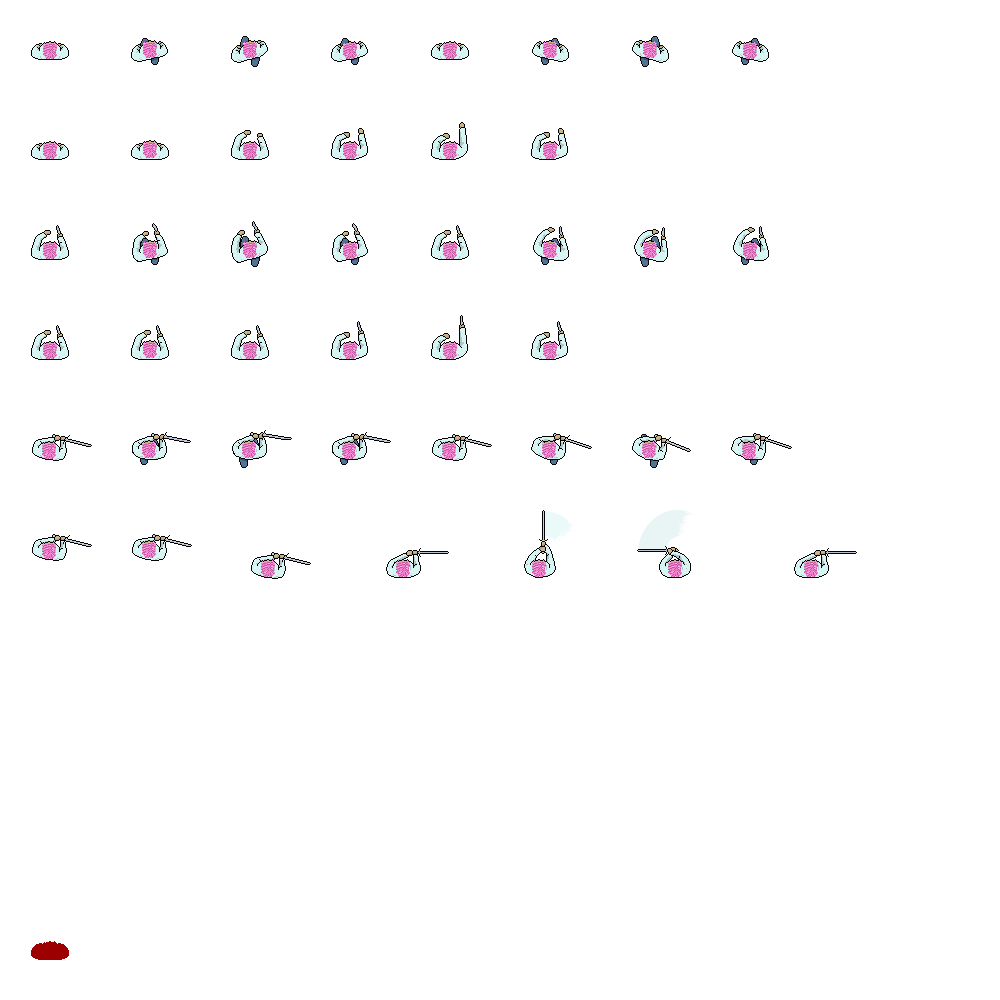
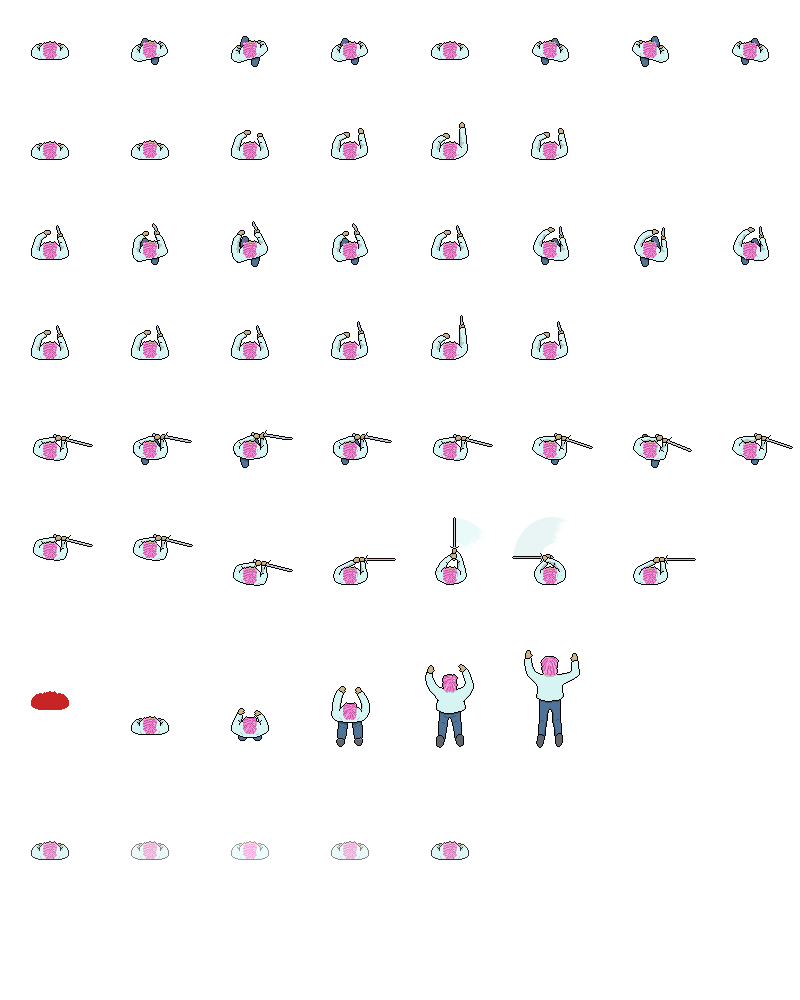
lvl 1 basic implementation... started

diff --git a/lilfrump.js b/lilfrump.js
@@ -1,16 +1,16 @@
 function Frump(game) {
     this.idle = new Animation(ASSET_MANAGER.getAsset("./img/LilFrump.png"), 0, 200, 200, 200, 0.4, 2, true, false);
     this.walk = new Animation(ASSET_MANAGER.getAsset("./img/LilFrump.png"), 0, 0, 200, 200, 0.1, 8, true, false);
-    this.hurting = new Animation(ASSET_MANAGER.getAsset("./img/LilFrump.png"), 0, 1800, 200, 200, 0.1, 1, false, false);
+    this.hurting = new Animation(ASSET_MANAGER.getAsset("./img/LilFrump.png"), 0, 1300, 200, 200, 0.1, 1, false, false);
     this.attack = new Animation(ASSET_MANAGER.getAsset("./img/LilFrump.png"), 400, 200, 200, 200, 0.1, 4, false, false);
-    // this.die = new Animation(ASSET_MANAGER.getAsset("./img/LilFrump.png"), 0, 1200, 200, 200, 0.1, 3, false, false);
+    this.deathAnim = new Animation(ASSET_MANAGER.getAsset("./img/LilFrump.png"), 200, 1300, 200, 300, 0.1, 5, false, false);
     // this.dead = new Animation(ASSET_MANAGER.getAsset("./img/LilFrump.png"), 400, 1200, 200, 200, 1, 1, false, false);
     this.knifeWalk = new Animation(ASSET_MANAGER.getAsset("./img/LilFrump.png"), 0, 400, 200, 200, 0.1, 8, true, false);
     this.knifeIdle = new Animation(ASSET_MANAGER.getAsset("./img/LilFrump.png"), 0, 600, 200, 200, 0.4, 2, true, false);
     this.knifeAttack = new Animation(ASSET_MANAGER.getAsset("./img/LilFrump.png"), 400, 600, 200, 200, 0.05, 4, false, false);
     this.swordWalk = new Animation(ASSET_MANAGER.getAsset("./img/LilFrump.png"), 0, 800, 200, 200, 0.1, 8, true, false);
     this.swordIdle = new Animation(ASSET_MANAGER.getAsset("./img/LilFrump.png"), 0, 1000, 200, 200, 0.4, 2, true, false);
-    this.swordAttack = new Animation(ASSET_MANAGER.getAsset("./img/LilFrump.png"), 400, 1000, 272, 272, 0.1, 5, false, false);
+    this.swordAttack = new Animation(ASSET_MANAGER.getAsset("./img/LilFrump.png"), 400, 1000, 200, 300, 0.1, 5, false, false);
 
     this.sides = 38;
     this.faces = 20;
@@ -37,6 +37,10 @@ Frump.prototype.constructor = Frump;
 
 Frump.prototype.update = function () {
     // console.log('P: ' + this.health);
+    if (this.health <= 0) {
+        this.dying = true;
+        this.health = 10;
+    }
     if (this.attackTimer > 0) this.attackTimer--;
     if (this.hitTimer > 0) this.hitTimer--;
     if (this.hitTimer == 0) this.hit = false;
@@ -49,9 +53,15 @@ Frump.prototype.update = function () {
     if (!this.game.shift & !this.game.space) this.weapon = "unarmed";
     if (this.game.clickmouse && this.attackTimer == 0) {
         this.attacking = true;
-        if (this.weapon == 'unarmed') this.attackTimer = 110;
-        else if (this.weapon = 'knife') this.attackTimer = 105;
-        else this.attackTimer = 115;
+        if (this.weapon == 'unarmed') this.attackTimer = 109;
+        else if (this.weapon = 'knife') this.attackTimer = 106;
+        else this.attackTimer = 112;
+    }
+    if (this.dying) {
+        if (this.deathAnim.isDone()) {
+            this.deathAnim.elapsedTime = 0;
+            this.dying = false;
+        }
     }
     if (this.hit) {
         if (this.hurting.isDone()) {
@@ -65,7 +75,7 @@ Frump.prototype.update = function () {
             if (this.attack.isDone()) {
                 this.attack.elapsedTime = 0;
                 this.attacking = false;
-                this.attackTimer = 35;
+                this.attackTimer = 30;
             }
         }
         if(this.weapon == "knife") {
@@ -73,7 +83,7 @@ Frump.prototype.update = function () {
             if (this.knifeAttack.isDone()) {
                 this.knifeAttack.elapsedTime = 0;
                 this.attacking = false;
-                this.attackTimer = 10;
+                this.attackTimer = 9;
             }
         }
         if(this.weapon == "sword") {
@@ -81,7 +91,7 @@ Frump.prototype.update = function () {
             if (this.swordAttack.isDone()) {
                 this.swordAttack.elapsedTime = 0;
                 this.attacking = false;
-                this.attackTimer = 20;
+                this.attackTimer = 18;
             }
         }        
     }
@@ -116,12 +126,12 @@ Frump.prototype.update = function () {
     for (var i = 0; i < this.game.entities.length; i++) {
         var ent = this.game.entities[i];
         if (ent.enemy) {
-            if (this.attacking && this.hurt(ent) && this.attackTimer <= 100 && ent.hitTimer == 0) {
+            if (this.attacking && this.hurt(ent) && this.attackTimer <= 100 && this.attackTimer >= 88 && ent.hitTimer == 0) {
                 ent.health--;
                 ent.hit = true;
-                if (this.weapon == 'knife') ent.hitTimer = 10;
-                else if (this.weapon == 'unarmed') ent.hitTimer = 35;
-                else ent.hitTimer = 40;
+                if (this.weapon == 'knife') ent.hitTimer = 12;
+                else if (this.weapon == 'unarmed') ent.hitTimer = 30;
+                else ent.hitTimer = 32;
             }
         }
     }
@@ -152,7 +162,8 @@ Frump.prototype.draw = function (ctx) {
     //     //supposed to just play the last frame of the death animation
     //     this.dead.drawFrame(this.game.clockTick, ctx, this.x, this.y, this.rotation);
     // }
-    if (this.hit) this.hurting.drawFrame(this.game.clockTick, ctx, this.x, this.y, this.rotation+Math.PI/2);
+    if (this.dying) this.deathAnim.drawFrame(this.game.clockTick, ctx, this.x, this.y, this.rotation+Math.PI/2);
+    else if (this.hit) this.hurting.drawFrame(this.game.clockTick, ctx, this.x, this.y, this.rotation+Math.PI/2);
     else if (this.attacking) {
         if (this.weapon == "unarmed") this.attack.drawFrame(this.game.clockTick, ctx, this.x, this.y, this.rotation+Math.PI/2);
         if (this.weapon == "knife") this.knifeAttack.drawFrame(this.game.clockTick, ctx, this.x, this.y, this.rotation+Math.PI/2);

diff --git a/main.js b/main.js
@@ -71,12 +71,29 @@ Background.prototype.draw = function (ctx) {
     Entity.prototype.draw.call(this);
 }
 
+function Street(game, image) {
+    Entity.call(this, game, 0, 0);
+    this.image = image;
+}
+
+Street.prototype = new Entity();
+Street.prototype.constructor = Street;
+
+Street.prototype.update = function() {
+}
+
+Street.prototype.draw = function (ctx) {
+    ctx.drawImage(ASSET_MANAGER.getAsset(this.image), 0, 0);
+    Entity.prototype.draw.call(this);
+}
+
 // the "main" code begins here
 var friction = 8;
 
 var ASSET_MANAGER = new AssetManager();
 
-ASSET_MANAGER.queueDownload("./img/background.png")
+ASSET_MANAGER.queueDownload("./img/background.png");
+ASSET_MANAGER.queueDownload("./img/street1.png");
 ASSET_MANAGER.queueDownload("./img/LilFrump.png");
 ASSET_MANAGER.queueDownload("./img/LilFrumpSheet.png");
 ASSET_MANAGER.queueDownload("./img/EnemyBig.png");
@@ -87,11 +104,12 @@ ASSET_MANAGER.downloadAll(function () {
     var ctx = canvas.getContext('2d');
 
     var gameEngine = new GameEngine();
-    var bg = new Background(gameEngine);
+    //var bg = new Background(gameEngine);
+    var street = new Street(gameEngine, "./img/street1.png");
     var frump = new Frump(gameEngine);
     //var enemy = new Enemy(gameEngine);
 
-    gameEngine.addEntity(bg);
+    gameEngine.addEntity(street);
     var enemies = Math.floor(Math.random()*2+1);
     for (var j = 0; j < enemies; j++) gameEngine.addEntity(new Enemy(gameEngine));
     gameEngine.addEntity(frump);

diff --git a/enemy.js b/enemy.js
@@ -80,7 +80,7 @@ Enemy.prototype.update = function () {
                     this.attacking = true;
                     this.attackTimer = 90;
                 }
-                if (this.attacking && this.hurt(ent) && this.attackTimer <= 75 && ent.hitTimer == 0) {
+                if (this.attacking && this.hurt(ent) && this.attackTimer <= 78 && this.attackTimer >= 66 && ent.hitTimer == 0) {
                     ent.health--;
                     ent.hit = true;
                     ent.hitTimer = this.attackTimer;

diff --git a/index.html b/index.html
@@ -11,6 +11,6 @@
     <script type="text/javascript" src="./main.js"></script>
 </head>
 <body>
-    <canvas id="gameWorld" tabindex="1" width="1280" height="720" style="border: 1px solid brown; background: lightskyblue"></canvas>
+    <canvas id="gameWorld" tabindex="1" width="1280" height="720" style="border: 1px solid black; background: whitesmoke"></canvas>
 </body>
 </html>

diff --git a/README.md b/README.md
@@ -6,4 +6,4 @@ TCSS 491 - Computational Worlds
 - James McHugh
 
 
-##### Developing Town of Babel since Jan 2020
+##### Developing {title} since Jan 2020
